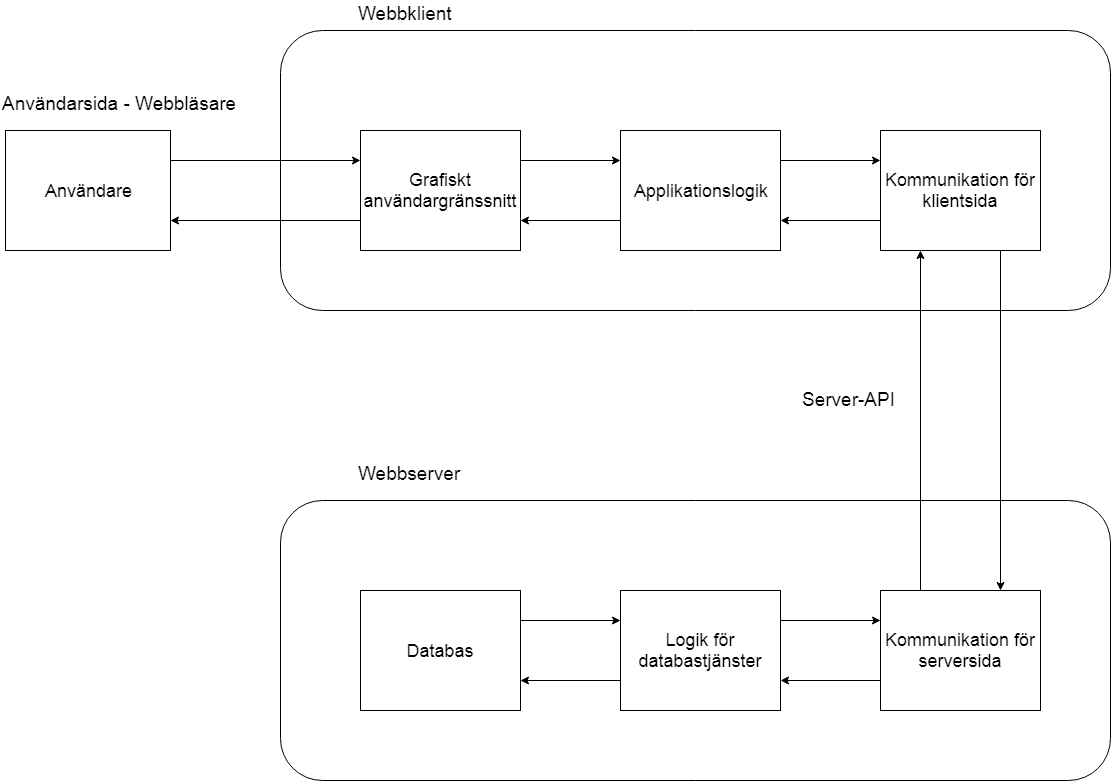
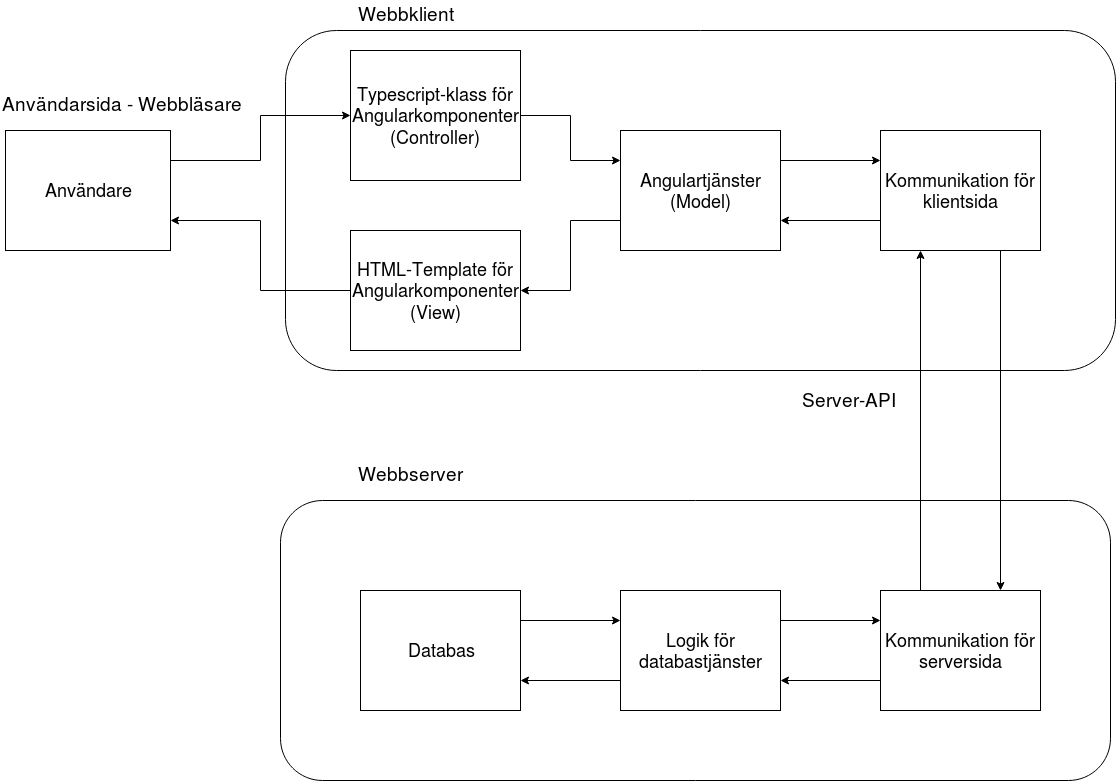
Fixed iteration 3 comments.

diff --git a/Arkitekturdokument/arkitekturdokument.tex b/Arkitekturdokument/arkitekturdokument.tex
@@ -76,10 +76,12 @@ Här listas några krav som är relevanta för arkitekturen. Kraven är hämtade
 Systemet skall främst användas av erfarna operationsplanerare som tidigare arbetat med schemaläggning. Även annan vårdpersonal kan komma att använda systemet.
 
 \section{Designbeslut och motivering}
-Här beskrivs designbeslut som fattats och motiveringar av dessa.
+Här beskrivs designbeslut som fattats eller förkastats och motiveringar av dessa.
 
 \subsection{Model-view-controller}
 För att enkelt kunna arbeta parallellt på systemets olika delar togs beslutet att använda designmönstret Model-view-controller.
+
+Då gruppen kände att MVC var ett lämpligt mönster för webutveckling och passade väl in med valet av Angular som utvecklingsplattform och den struktur på front-end delen av arkitekturen som detta kom att resultera i så betraktades inga andra alternativ.
 
 \subsection{Angular}
 Till webbklienten beslutades att ramverkat Angular ska användas. Detta för att underlätta strukturen och designen av gränssnitt.
